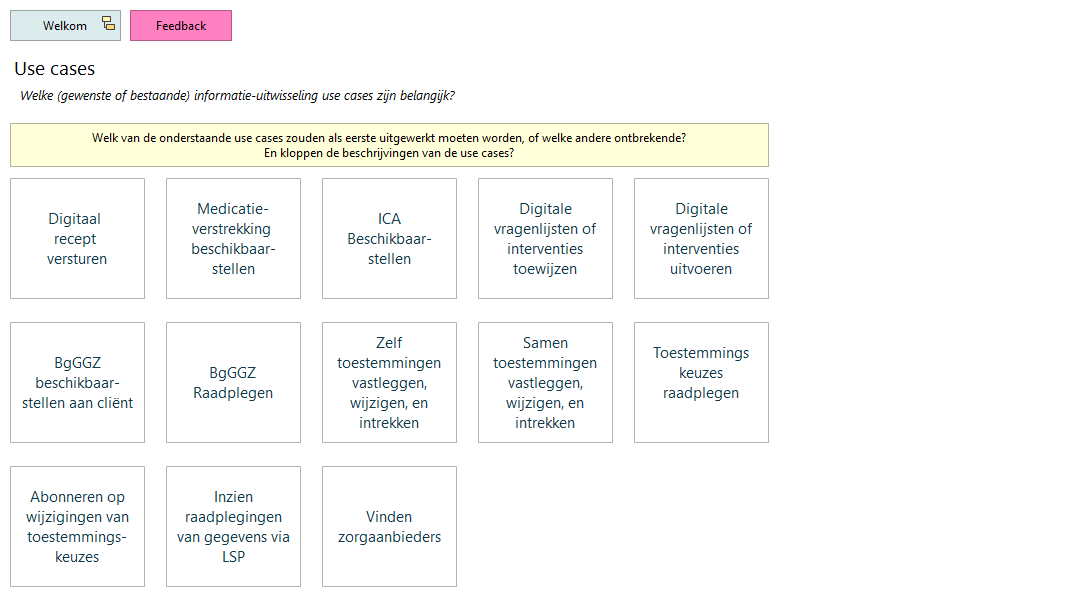
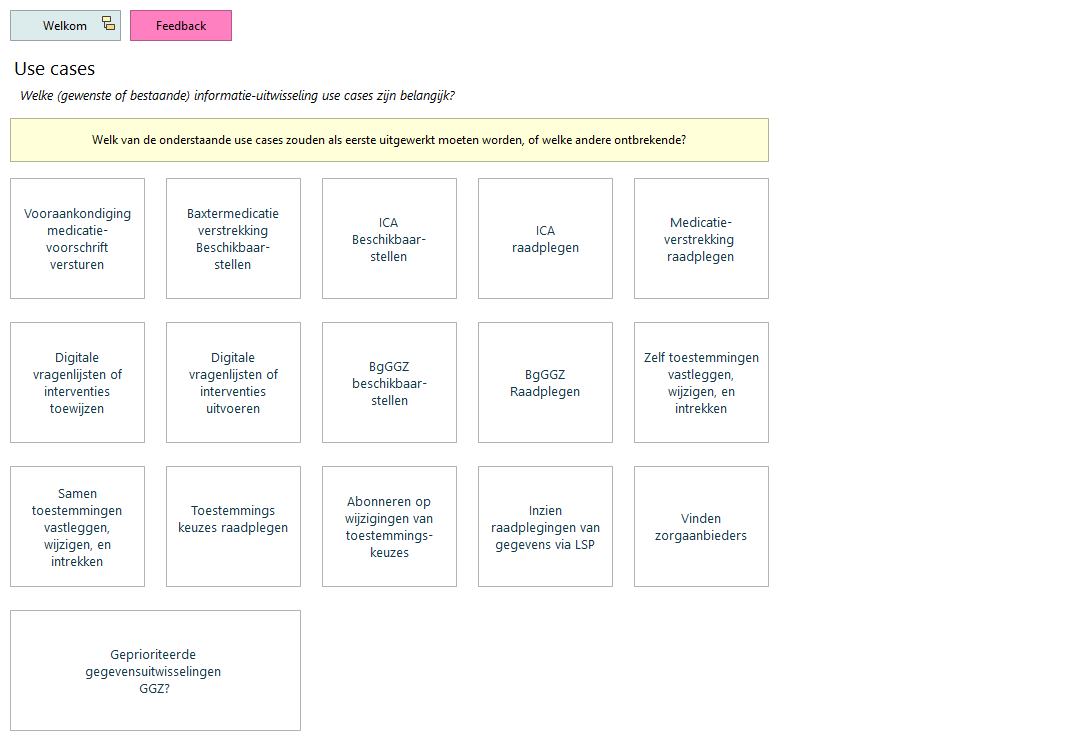
html publicatie

diff --git a/docs/id-1b2b3ea8c1b54bb4873512ca569a6986/views/id-f620c5d602114b5989ea8b72dfc0f2b1.html b/docs/id-1b2b3ea8c1b54bb4873512ca569a6986/views/id-f620c5d602114b5989ea8b72dfc0f2b1.html
@@ -32,20 +32,23 @@
 		    <!-- If this is a digram model (has children and no bounds) show the image -->
 			   <img class="diagram" src="../images/id-f620c5d602114b5989ea8b72dfc0f2b1.png" alt="Informatie-uitwissel Use cases" usemap="#id-f620c5d602114b5989ea8b72dfc0f2b1map"/>
 			   <map name="id-f620c5d602114b5989ea8b72dfc0f2b1map">
-				          <area shape="rect" coords="322,466,457,587" href="../objects/id-7f61e1060f0d418194821f3ff5d46a8d.html" target="element" >
-				          <area shape="rect" coords="166,466,301,587" href="../objects/id-1435e6ccbda54fe6a131fc7faa70a6eb.html" target="element" >
-				          <area shape="rect" coords="10,466,145,587" href="../objects/id-d6f1a44d882b4f4c9cbf483a6d5434c8.html" target="element" >
-				          <area shape="rect" coords="634,322,769,443" href="../objects/id-4b6991282ea047e58110ac511b800086.html" target="element" >
-				          <area shape="rect" coords="478,322,613,443" href="../objects/id-8c9f79e844d0445e9929b130698decf2.html" target="element" >
-				          <area shape="rect" coords="322,322,457,443" href="../objects/id-6d86b77fd29946cba4430b8fdd65462e.html" target="element" >
-				          <area shape="rect" coords="166,322,301,443" href="../objects/id-4c996950e9b54a1fb4377f74cf73f7a3.html" target="element" >
-				          <area shape="rect" coords="10,322,145,443" href="../objects/id-69c2ecd6cac94d119441c9f72787bbe3.html" target="element" >
-				          <area shape="rect" coords="634,178,769,299" href="../objects/id-eb7d0a72515346b19ad241c5bf47d3b5.html" target="element" >
-				          <area shape="rect" coords="478,178,613,299" href="../objects/id-097e6ac9521b424ba6a4c50d0a77d462.html" target="element" >
-				          <area shape="rect" coords="322,178,457,299" href="../objects/id-c5cbf147ee8242fca7bdc9898bf37e9d.html" target="element" >
-				          <area shape="rect" coords="166,178,301,299" href="../objects/id-292a9bf4f59a43e7bbc8eee1c6e62aee.html" target="element" >
+				          <area shape="rect" coords="478,178,613,299" href="../objects/id-146d6c2aec74444e91c18a22aa004083.html" target="element" >
+				          <area shape="rect" coords="322,178,457,299" href="../objects/id-7db955190ae34d4e977d8b39a7f33dc0.html" target="element" >
+				          <area shape="rect" coords="10,610,301,731" href="../objects/id-9e6baf593ce7426b9529b643b136623a.html" target="element" >
+				          <area shape="rect" coords="634,466,769,587" href="../objects/id-7f61e1060f0d418194821f3ff5d46a8d.html" target="element" >
+				          <area shape="rect" coords="478,466,613,587" href="../objects/id-1435e6ccbda54fe6a131fc7faa70a6eb.html" target="element" >
+				          <area shape="rect" coords="322,466,457,587" href="../objects/id-d6f1a44d882b4f4c9cbf483a6d5434c8.html" target="element" >
+				          <area shape="rect" coords="166,466,301,587" href="../objects/id-4b6991282ea047e58110ac511b800086.html" target="element" >
+				          <area shape="rect" coords="10,466,145,587" href="../objects/id-8c9f79e844d0445e9929b130698decf2.html" target="element" >
+				          <area shape="rect" coords="634,322,769,443" href="../objects/id-6d86b77fd29946cba4430b8fdd65462e.html" target="element" >
+				          <area shape="rect" coords="478,322,613,443" href="../objects/id-4c996950e9b54a1fb4377f74cf73f7a3.html" target="element" >
+				          <area shape="rect" coords="322,322,457,443" href="../objects/id-69c2ecd6cac94d119441c9f72787bbe3.html" target="element" >
+				          <area shape="rect" coords="166,322,301,443" href="../objects/id-eb7d0a72515346b19ad241c5bf47d3b5.html" target="element" >
+				          <area shape="rect" coords="10,322,145,443" href="../objects/id-097e6ac9521b424ba6a4c50d0a77d462.html" target="element" >
+				          <area shape="rect" coords="166,178,301,299" href="../objects/id-c5cbf147ee8242fca7bdc9898bf37e9d.html" target="element" >
+				          <area shape="rect" coords="634,178,769,299" href="../objects/id-292a9bf4f59a43e7bbc8eee1c6e62aee.html" target="element" >
 				          <area shape="rect" coords="10,178,145,299" href="../objects/id-62623df2363a45fe859815a59c6d6b0a.html" target="element" >
-				          <area shape="rect" coords="10,123,769,167" href="../objects/id-b2a9203392f94b809242b699c9c0a2fa.html" target="element" >
+				          <area shape="rect" coords="10,118,769,162" href="../objects/id-b2a9203392f94b809242b699c9c0a2fa.html" target="element" >
 				  		<area shape="rect" coords="10,10,121,41" href="../views/id-045b02604ef8440194bcde93d2d573d6.html"  target="view">
 				      <!-- Other diagram objects -->
 				          <area shape="rect" coords="130,10,232,41" href="../objects/id-1458cd3305e74642b1b715d68262b329.html" target="element" >
@@ -213,6 +216,21 @@
 									           <td> <a href="../objects/id-7f61e1060f0d418194821f3ff5d46a8d.html" target="element" class="i18n-elementtype-SketchModelSticky"> </a> </td>
 									        </tr>
 
+									        <tr>
+									           <td> <a href="../objects/id-9e6baf593ce7426b9529b643b136623a.html" target="element"> Sticky </a> </td>
+									           <td> <a href="../objects/id-9e6baf593ce7426b9529b643b136623a.html" target="element" class="i18n-elementtype-SketchModelSticky"> </a> </td>
+									        </tr>
+
+									        <tr>
+									           <td> <a href="../objects/id-7db955190ae34d4e977d8b39a7f33dc0.html" target="element"> Sticky </a> </td>
+									           <td> <a href="../objects/id-7db955190ae34d4e977d8b39a7f33dc0.html" target="element" class="i18n-elementtype-SketchModelSticky"> </a> </td>
+									        </tr>
+
+									        <tr>
+									           <td> <a href="../objects/id-146d6c2aec74444e91c18a22aa004083.html" target="element"> Sticky </a> </td>
+									           <td> <a href="../objects/id-146d6c2aec74444e91c18a22aa004083.html" target="element" class="i18n-elementtype-SketchModelSticky"> </a> </td>
+									        </tr>
+
 
 								</tbody>
 							</table>
@@ -232,6 +250,9 @@
 											<!-- DEBUG: Skipping element from class com.archimatetool.model.impl.SketchModelSticky -->
 											<!-- DEBUG: Skipping element from class com.archimatetool.model.impl.DiagramModelGroup -->
 											<!-- DEBUG: Skipping element from class com.archimatetool.model.impl.DiagramModelReference -->
+											<!-- DEBUG: Skipping element from class com.archimatetool.model.impl.SketchModelSticky -->
+											<!-- DEBUG: Skipping element from class com.archimatetool.model.impl.SketchModelSticky -->
+											<!-- DEBUG: Skipping element from class com.archimatetool.model.impl.SketchModelSticky -->
 											<!-- DEBUG: Skipping element from class com.archimatetool.model.impl.SketchModelSticky -->
 											<!-- DEBUG: Skipping element from class com.archimatetool.model.impl.SketchModelSticky -->
 											<!-- DEBUG: Skipping element from class com.archimatetool.model.impl.SketchModelSticky -->

diff --git a/docs/id-1b2b3ea8c1b54bb4873512ca569a6986/views/id-045b02604ef8440194bcde93d2d573d6.html b/docs/id-1b2b3ea8c1b54bb4873512ca569a6986/views/id-045b02604ef8440194bcde93d2d573d6.html
@@ -32,26 +32,28 @@
 		    <!-- If this is a digram model (has children and no bounds) show the image -->
 			   <img class="diagram" src="../images/id-045b02604ef8440194bcde93d2d573d6.png" alt="01. Welkom" usemap="#id-045b02604ef8440194bcde93d2d573d6map"/>
 			   <map name="id-045b02604ef8440194bcde93d2d573d6map">
-				          <area shape="rect" coords="538,226,814,270" href="../objects/id-7191eaa3dfab42b188dad941049f7083.html" target="element" >
-				  		<area shape="rect" coords="274,202,394,311" href="../views/id-a167bc85b2494c9d8e546022bc607046.html"  target="view">
+				          <area shape="rect" coords="10,214,863,251" href="../objects/id-f4ed9d1209fb4ee8a410e91deb43893b.html" target="element" >
+				          <area shape="rect" coords="10,394,863,431" href="../objects/id-1f546778a255452fa9ff267e43a1bbfe.html" target="element" >
+				          <area shape="rect" coords="538,274,814,318" href="../objects/id-7191eaa3dfab42b188dad941049f7083.html" target="element" >
+				  		<area shape="rect" coords="274,250,394,359" href="../views/id-a167bc85b2494c9d8e546022bc607046.html"  target="view">
 				      <!-- Other diagram objects -->
-				  		<area shape="rect" coords="802,334,922,443" href="../views/id-6292ae1387794205839d2c581f594cf2.html"  target="view">
+				  		<area shape="rect" coords="802,430,922,539" href="../views/id-6292ae1387794205839d2c581f594cf2.html"  target="view">
 				      <!-- Other diagram objects -->
-				  		<area shape="rect" coords="670,334,790,443" href="../views/id-218085d5f1794aa49eeb4c13e51bec87.html"  target="view">
+				  		<area shape="rect" coords="670,430,790,539" href="../views/id-218085d5f1794aa49eeb4c13e51bec87.html"  target="view">
 				      <!-- Other diagram objects -->
-				  		<area shape="rect" coords="538,334,658,443" href="../views/id-e51dbec79046406fa62422a8df173888.html"  target="view">
+				  		<area shape="rect" coords="538,430,658,539" href="../views/id-e51dbec79046406fa62422a8df173888.html"  target="view">
 				      <!-- Other diagram objects -->
-				  		<area shape="rect" coords="403,334,523,443" href="../views/id-b4ffba2ed05448e0a948d680064fdd1d.html"  target="view">
+				  		<area shape="rect" coords="403,430,523,539" href="../views/id-b4ffba2ed05448e0a948d680064fdd1d.html"  target="view">
 				      <!-- Other diagram objects -->
-				  		<area shape="rect" coords="274,334,394,443" href="../views/id-d64e7d2780e4423a93a7156263da9280.html"  target="view">
+				  		<area shape="rect" coords="274,430,394,539" href="../views/id-d64e7d2780e4423a93a7156263da9280.html"  target="view">
 				      <!-- Other diagram objects -->
-				  		<area shape="rect" coords="144,334,264,443" href="../views/id-21823a3be2f84867b09c4e165470ca91.html"  target="view">
+				  		<area shape="rect" coords="144,430,264,539" href="../views/id-21823a3be2f84867b09c4e165470ca91.html"  target="view">
 				      <!-- Other diagram objects -->
-				  		<area shape="rect" coords="10,334,130,443" href="../views/id-118fb71087e54559b9e7228a41ac5161.html"  target="view">
+				  		<area shape="rect" coords="10,430,130,539" href="../views/id-118fb71087e54559b9e7228a41ac5161.html"  target="view">
 				      <!-- Other diagram objects -->
-				  		<area shape="rect" coords="144,202,264,311" href="../views/id-f4154c3bd85b4a9695431f3136c034de.html"  target="view">
+				  		<area shape="rect" coords="144,250,264,359" href="../views/id-f4154c3bd85b4a9695431f3136c034de.html"  target="view">
 				      <!-- Other diagram objects -->
-				  		<area shape="rect" coords="10,202,130,311" href="../views/id-f620c5d602114b5989ea8b72dfc0f2b1.html"  target="view">
+				  		<area shape="rect" coords="10,250,130,359" href="../views/id-f620c5d602114b5989ea8b72dfc0f2b1.html"  target="view">
 				      <!-- Other diagram objects -->
 				          <area shape="rect" coords="10,10,191,30" href="../objects/id-2627f02693ce45d8b44b0f1b4e593333.html" target="element" >
 				          <area shape="rect" coords="10,65,863,179" href="../objects/id-94a7021784d84204ada036ba455a8b56.html" target="element" >
@@ -138,7 +140,7 @@
 									        </tr>
 
 									        <tr>
-									           <td> <a href="../objects/id-2627f02693ce45d8b44b0f1b4e593333.html" target="element"> wijzigingen (18-06-2024) </a> </td>
+									           <td> <a href="../objects/id-2627f02693ce45d8b44b0f1b4e593333.html" target="element"> wijzigingen (20-06-2024) </a> </td>
 									           <td> <a href="../objects/id-2627f02693ce45d8b44b0f1b4e593333.html" target="element" class="i18n-elementtype-DiagramModelGroup"> </a> </td>
 									        </tr>
 
@@ -207,6 +209,16 @@
 									           <td> <a href="../objects/id-7191eaa3dfab42b188dad941049f7083.html" target="element" class="i18n-elementtype-DiagramModelGroup"> </a> </td>
 									        </tr>
 
+									        <tr>
+									           <td> <a href="../objects/id-1f546778a255452fa9ff267e43a1bbfe.html" target="element"> Toelichting </a> </td>
+									           <td> <a href="../objects/id-1f546778a255452fa9ff267e43a1bbfe.html" target="element" class="i18n-elementtype-SketchModelSticky"> </a> </td>
+									        </tr>
+
+									        <tr>
+									           <td> <a href="../objects/id-f4ed9d1209fb4ee8a410e91deb43893b.html" target="element"> Toelichting </a> </td>
+									           <td> <a href="../objects/id-f4ed9d1209fb4ee8a410e91deb43893b.html" target="element" class="i18n-elementtype-SketchModelSticky"> </a> </td>
+									        </tr>
+
 
 								</tbody>
 							</table>
@@ -236,6 +248,8 @@
 											<!-- DEBUG: Skipping element from class com.archimatetool.model.impl.DiagramModelReference -->
 											<!-- DEBUG: Skipping element from class com.archimatetool.model.impl.DiagramModelReference -->
 											<!-- DEBUG: Skipping element from class com.archimatetool.model.impl.DiagramModelGroup -->
+											<!-- DEBUG: Skipping element from class com.archimatetool.model.impl.SketchModelSticky -->
+											<!-- DEBUG: Skipping element from class com.archimatetool.model.impl.SketchModelSticky -->
 
 								</tbody>
 							</table>

diff --git a/docs/id-1b2b3ea8c1b54bb4873512ca569a6986/objects/id-9e6baf593ce7426b9529b643b136623a.html b/docs/id-1b2b3ea8c1b54bb4873512ca569a6986/objects/id-9e6baf593ce7426b9529b643b136623a.html
@@ -2,7 +2,7 @@
 <html class="frame" lang="en">
 <head>
 	<meta http-equiv="Content-Type" content="text/html;charset=utf-8">
-	<title>Toelichting</title>
+	<title>Sticky</title>
 
 	<!-- JQUERY -->
 	<script type="text/javascript" src="../../lib/jquery/jquery.min.js"></script>
@@ -21,7 +21,7 @@
 
 		<div class="panel-heading root-panel-heading">
             <!-- Name -->
-               <b>Toelichting</b>
+               <b>Sticky</b>
 
             <!-- If a View with Viewpoint -->
 			   (<span class="i18n-elementtype-SketchModelSticky"></span>)
@@ -47,12 +47,9 @@
 				<!-- Tab panes -->
 				<div class="tab-content">
 					<div role="tabpanel" class="tab-pane active" id="documentation">
-						<div class="convertlinks documentation" style="white-space:pre-wrap">Binnen deze omgeving werk ik zo veel  onderwerpen uit die belangrijk zijn voor gegevensuitwisseling binnen de geestelijkegezondheidszorg. 
-Bijdrage uit de sector zelf is meer dan welkom en ook gewoon nodig om onderwerpen goed te kunnen prioriteren en te beschrijven. 
-
-Marcel Schrauwen
-Business architect voor de GGZ
-VZVZ</div>
+						<div class="convertlinks documentation" style="white-space:pre-wrap">Geprioriteerde 
+gegevensuitwisselingen 
+GGZ?</div>
 					</div>
 					<div role="tabpanel" class="tab-pane" id="properties">
 						<table class="table table-striped table-hover table-condensed">

diff --git a/docs/id-1b2b3ea8c1b54bb4873512ca569a6986/objects/id-7db955190ae34d4e977d8b39a7f33dc0.html b/docs/id-1b2b3ea8c1b54bb4873512ca569a6986/objects/id-7db955190ae34d4e977d8b39a7f33dc0.html
@@ -2,7 +2,7 @@
 <html class="frame" lang="en">
 <head>
 	<meta http-equiv="Content-Type" content="text/html;charset=utf-8">
-	<title>Toelichting</title>
+	<title>Sticky</title>
 
 	<!-- JQUERY -->
 	<script type="text/javascript" src="../../lib/jquery/jquery.min.js"></script>
@@ -21,7 +21,7 @@
 
 		<div class="panel-heading root-panel-heading">
             <!-- Name -->
-               <b>Toelichting</b>
+               <b>Sticky</b>
 
             <!-- If a View with Viewpoint -->
 			   (<span class="i18n-elementtype-SketchModelSticky"></span>)
@@ -47,12 +47,9 @@
 				<!-- Tab panes -->
 				<div class="tab-content">
 					<div role="tabpanel" class="tab-pane active" id="documentation">
-						<div class="convertlinks documentation" style="white-space:pre-wrap">Binnen deze omgeving werk ik zo veel  onderwerpen uit die belangrijk zijn voor gegevensuitwisseling binnen de geestelijkegezondheidszorg. 
-Bijdrage uit de sector zelf is meer dan welkom en ook gewoon nodig om onderwerpen goed te kunnen prioriteren en te beschrijven. 
-
-Marcel Schrauwen
-Business architect voor de GGZ
-VZVZ</div>
+						<div class="convertlinks documentation" style="white-space:pre-wrap">ICA
+Beschikbaar-
+stellen</div>
 					</div>
 					<div role="tabpanel" class="tab-pane" id="properties">
 						<table class="table table-striped table-hover table-condensed">

diff --git a/docs/id-1b2b3ea8c1b54bb4873512ca569a6986/objects/id-146d6c2aec74444e91c18a22aa004083.html b/docs/id-1b2b3ea8c1b54bb4873512ca569a6986/objects/id-146d6c2aec74444e91c18a22aa004083.html
@@ -2,7 +2,7 @@
 <html class="frame" lang="en">
 <head>
 	<meta http-equiv="Content-Type" content="text/html;charset=utf-8">
-	<title>Toelichting</title>
+	<title>Sticky</title>
 
 	<!-- JQUERY -->
 	<script type="text/javascript" src="../../lib/jquery/jquery.min.js"></script>
@@ -21,7 +21,7 @@
 
 		<div class="panel-heading root-panel-heading">
             <!-- Name -->
-               <b>Toelichting</b>
+               <b>Sticky</b>
 
             <!-- If a View with Viewpoint -->
 			   (<span class="i18n-elementtype-SketchModelSticky"></span>)
@@ -47,12 +47,8 @@
 				<!-- Tab panes -->
 				<div class="tab-content">
 					<div role="tabpanel" class="tab-pane active" id="documentation">
-						<div class="convertlinks documentation" style="white-space:pre-wrap">Binnen deze omgeving werk ik zo veel  onderwerpen uit die belangrijk zijn voor gegevensuitwisseling binnen de geestelijkegezondheidszorg. 
-Bijdrage uit de sector zelf is meer dan welkom en ook gewoon nodig om onderwerpen goed te kunnen prioriteren en te beschrijven. 
-
-Marcel Schrauwen
-Business architect voor de GGZ
-VZVZ</div>
+						<div class="convertlinks documentation" style="white-space:pre-wrap">ICA
+raadplegen</div>
 					</div>
 					<div role="tabpanel" class="tab-pane" id="properties">
 						<table class="table table-striped table-hover table-condensed">

diff --git a/docs/id-1b2b3ea8c1b54bb4873512ca569a6986/objects/id-2627f02693ce45d8b44b0f1b4e593333.html b/docs/id-1b2b3ea8c1b54bb4873512ca569a6986/objects/id-2627f02693ce45d8b44b0f1b4e593333.html
@@ -2,7 +2,7 @@
 <html class="frame" lang="en">
 <head>
 	<meta http-equiv="Content-Type" content="text/html;charset=utf-8">
-	<title>wijzigingen (18-06-2024)</title>
+	<title>wijzigingen (20-06-2024)</title>
 
 	<!-- JQUERY -->
 	<script type="text/javascript" src="../../lib/jquery/jquery.min.js"></script>
@@ -21,7 +21,7 @@
 
 		<div class="panel-heading root-panel-heading">
             <!-- Name -->
-               <b>wijzigingen (18-06-2024)</b>
+               <b>wijzigingen (20-06-2024)</b>
 
             <!-- If a View with Viewpoint -->
 			   (<span class="i18n-elementtype-DiagramModelGroup"></span>)
@@ -47,7 +47,10 @@
 				<!-- Tab panes -->
 				<div class="tab-content">
 					<div role="tabpanel" class="tab-pane active" id="documentation">
-						<div class="convertlinks documentation" style="white-space:pre-wrap">18-06-2024
+						<div class="convertlinks documentation" style="white-space:pre-wrap">20-06-2024
+- Eerste use cases toegevoegd (nog niet uitgewerkt)
+
+18-06-2024
 - Eerste structuur van deze omgeving gemaakt</div>
 					</div>
 					<div role="tabpanel" class="tab-pane" id="properties">

diff --git a/docs/id-1b2b3ea8c1b54bb4873512ca569a6986/objects/id-7191eaa3dfab42b188dad941049f7083.html b/docs/id-1b2b3ea8c1b54bb4873512ca569a6986/objects/id-7191eaa3dfab42b188dad941049f7083.html
@@ -47,7 +47,7 @@
 				<!-- Tab panes -->
 				<div class="tab-content">
 					<div role="tabpanel" class="tab-pane active" id="documentation">
-						<div class="convertlinks documentation" style="white-space:pre-wrap">Om een goed begin te maken met dit model wil ik graag weten wat belangrijk is voor de GGZ. Wat zou ik als eerste uit moeten werken? Iedere pagina is voorzien van een mailto link waar je suggesties kwijt kunt.</div>
+						<div class="convertlinks documentation" style="white-space:pre-wrap">Om een goed begin te maken met dit model wil ik graag weten wat belangrijk is voor de GGZ. Wat zou ik als eerste uit moeten werken? Iedere pagina is voorzien van een mailto link waar je suggesties kwijt kunt. Zodra er verzoeken binnenkomen vanuit de sector zal ik een backlog aanmaken waarin gevolgd kan worden wat de status van uitwerking is.</div>
 					</div>
 					<div role="tabpanel" class="tab-pane" id="properties">
 						<table class="table table-striped table-hover table-condensed">

diff --git a/docs/id-1b2b3ea8c1b54bb4873512ca569a6986/objects/id-f4ed9d1209fb4ee8a410e91deb43893b.html b/docs/id-1b2b3ea8c1b54bb4873512ca569a6986/objects/id-f4ed9d1209fb4ee8a410e91deb43893b.html
@@ -47,12 +47,7 @@
 				<!-- Tab panes -->
 				<div class="tab-content">
 					<div role="tabpanel" class="tab-pane active" id="documentation">
-						<div class="convertlinks documentation" style="white-space:pre-wrap">Binnen deze omgeving werk ik zo veel  onderwerpen uit die belangrijk zijn voor gegevensuitwisseling binnen de geestelijkegezondheidszorg. 
-Bijdrage uit de sector zelf is meer dan welkom en ook gewoon nodig om onderwerpen goed te kunnen prioriteren en te beschrijven. 
-
-Marcel Schrauwen
-Business architect voor de GGZ
-VZVZ</div>
+						<div class="convertlinks documentation" style="white-space:pre-wrap">Welke use cases en use case behoeftes bestaan er binnen de GGZ en welke landelijke programma's zijn belangrijk om te volgen?</div>
 					</div>
 					<div role="tabpanel" class="tab-pane" id="properties">
 						<table class="table table-striped table-hover table-condensed">

diff --git a/docs/id-1b2b3ea8c1b54bb4873512ca569a6986/objects/id-1f546778a255452fa9ff267e43a1bbfe.html b/docs/id-1b2b3ea8c1b54bb4873512ca569a6986/objects/id-1f546778a255452fa9ff267e43a1bbfe.html
@@ -47,12 +47,7 @@
 				<!-- Tab panes -->
 				<div class="tab-content">
 					<div role="tabpanel" class="tab-pane active" id="documentation">
-						<div class="convertlinks documentation" style="white-space:pre-wrap">Binnen deze omgeving werk ik zo veel  onderwerpen uit die belangrijk zijn voor gegevensuitwisseling binnen de geestelijkegezondheidszorg. 
-Bijdrage uit de sector zelf is meer dan welkom en ook gewoon nodig om onderwerpen goed te kunnen prioriteren en te beschrijven. 
-
-Marcel Schrauwen
-Business architect voor de GGZ
-VZVZ</div>
+						<div class="convertlinks documentation" style="white-space:pre-wrap">Welke onderwerpen binnen het interoperabiliteitsmodel van Nictiz zijn belangrijk om zicht op te hebben vanuit de GGZ?</div>
 					</div>
 					<div role="tabpanel" class="tab-pane" id="properties">
 						<table class="table table-striped table-hover table-condensed">

diff --git a/docs/id-1b2b3ea8c1b54bb4873512ca569a6986/objects/id-b2a9203392f94b809242b699c9c0a2fa.html b/docs/id-1b2b3ea8c1b54bb4873512ca569a6986/objects/id-b2a9203392f94b809242b699c9c0a2fa.html
@@ -47,8 +47,7 @@
 				<!-- Tab panes -->
 				<div class="tab-content">
 					<div role="tabpanel" class="tab-pane active" id="documentation">
-						<div class="convertlinks documentation" style="white-space:pre-wrap">Welk van de onderstaande use cases zouden als eerste uitgewerkt moeten worden, of welke andere ontbrekende?
-En kloppen de beschrijvingen van de use cases?</div>
+						<div class="convertlinks documentation" style="white-space:pre-wrap">Welk van de onderstaande use cases zouden als eerste uitgewerkt moeten worden, of welke andere ontbrekende?</div>
 					</div>
 					<div role="tabpanel" class="tab-pane" id="properties">
 						<table class="table table-striped table-hover table-condensed">

diff --git a/docs/id-1b2b3ea8c1b54bb4873512ca569a6986/objects/id-62623df2363a45fe859815a59c6d6b0a.html b/docs/id-1b2b3ea8c1b54bb4873512ca569a6986/objects/id-62623df2363a45fe859815a59c6d6b0a.html
@@ -47,8 +47,9 @@
 				<!-- Tab panes -->
 				<div class="tab-content">
 					<div role="tabpanel" class="tab-pane active" id="documentation">
-						<div class="convertlinks documentation" style="white-space:pre-wrap">Digitaal 
-recept 
+						<div class="convertlinks documentation" style="white-space:pre-wrap">Vooraankondiging
+medicatie-
+voorschrift
 versturen</div>
 					</div>
 					<div role="tabpanel" class="tab-pane" id="properties">

diff --git a/docs/id-1b2b3ea8c1b54bb4873512ca569a6986/objects/id-69c2ecd6cac94d119441c9f72787bbe3.html b/docs/id-1b2b3ea8c1b54bb4873512ca569a6986/objects/id-69c2ecd6cac94d119441c9f72787bbe3.html
@@ -48,7 +48,7 @@
 				<div class="tab-content">
 					<div role="tabpanel" class="tab-pane active" id="documentation">
 						<div class="convertlinks documentation" style="white-space:pre-wrap">BgGGZ beschikbaar-
-stellen aan cli&#235;nt</div>
+stellen</div>
 					</div>
 					<div role="tabpanel" class="tab-pane" id="properties">
 						<table class="table table-striped table-hover table-condensed">
